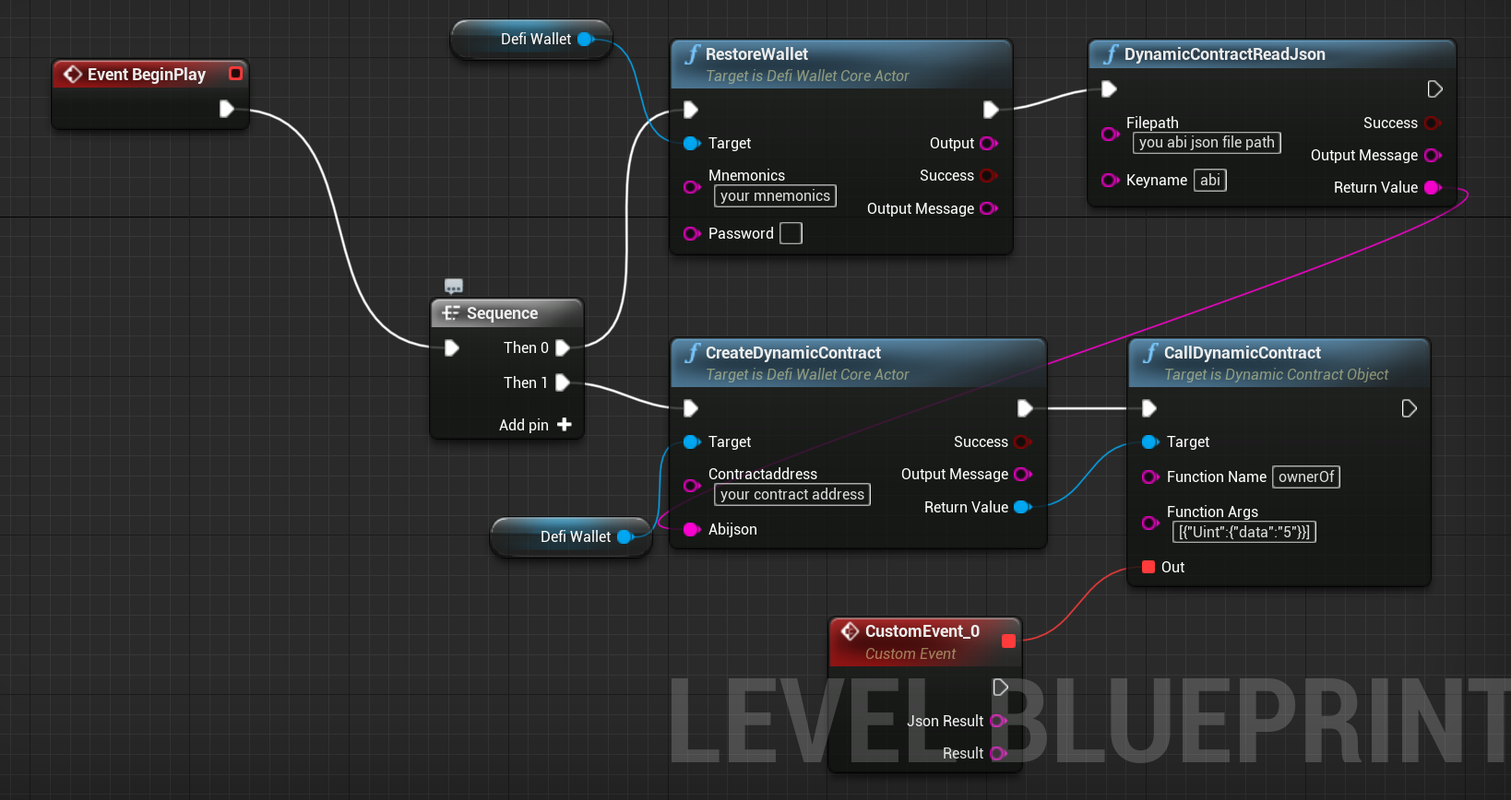
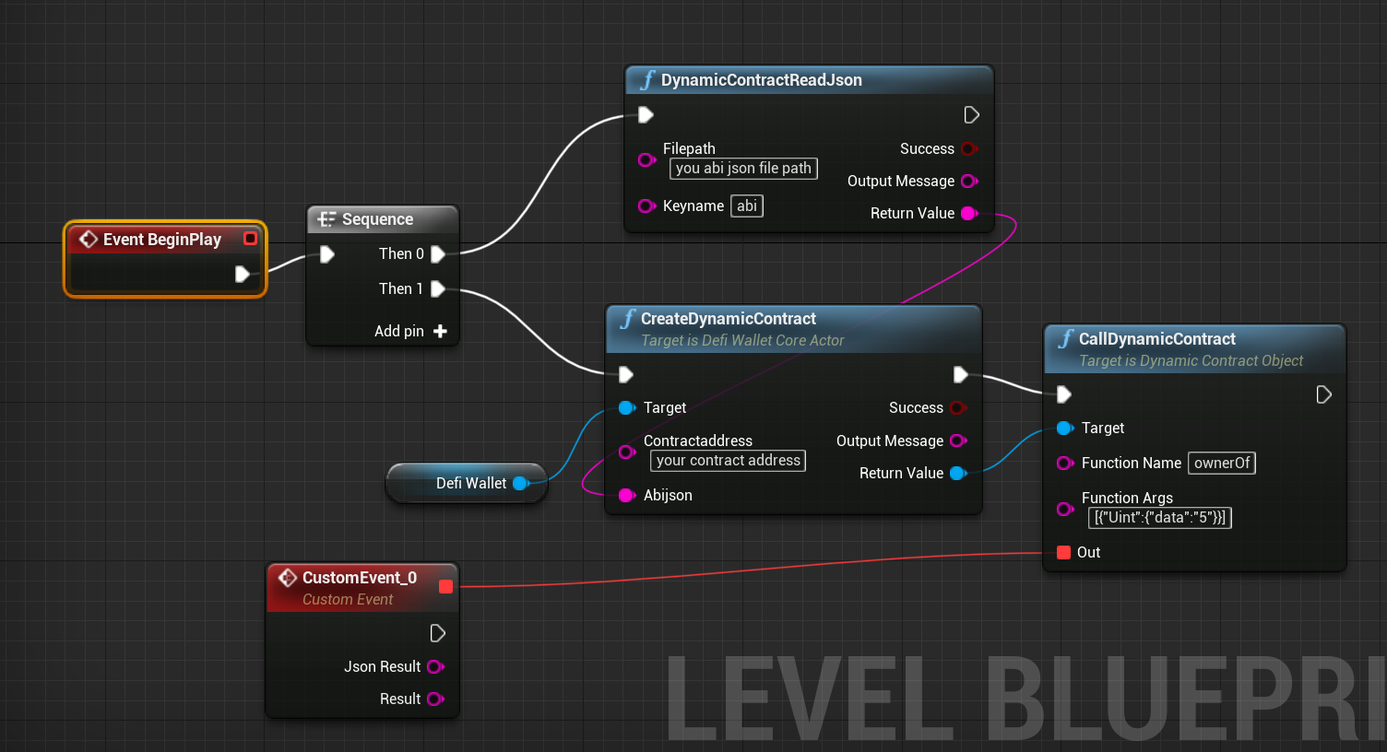
update call blueprint

diff --git a/cronos-play/getting-started_unreal/quick-start/dynamic-contract.md b/cronos-play/getting-started_unreal/quick-start/dynamic-contract.md
@@ -9,14 +9,15 @@ with Dynamic Contract, you can call any smartcontract. you need abi json file fo
 - CreateDynamicContract : for query smart-contract
 - CreateDynamicSigningContract : for modifying smart-contract
 - Now DynamicContractObject is ready!
-## Functions of DynamicContractObject
+## What function to use?
 - EncodeDynamicContract : for `encoding`, can be used wallet-connect
 - CallDynamicContract : for `calling`, should be created with CreateDynamicContract
 - SendDynamicContract : for `signing and sending`, should be created with CreateDynamicSigningContract
 
 
 ## Call
-this is for non modifying contract call
+this is for non modifying contract call. 
+
 
 {% tabs %}
 {% tab title="Blueprint" %}
@@ -28,98 +29,75 @@ this is for non modifying contract call
 Begin Object Class=/Script/BlueprintGraph.K2Node_Event Name="K2Node_Event_0"
    EventReference=(MemberParent=Class'"/Script/Engine.Actor"',MemberName="ReceiveBeginPlay")
    bOverrideFunction=True
-   NodePosX=272
-   NodePosY=-128
+   NodePosX=352
+   NodePosY=-16
    bCommentBubblePinned=True
    NodeGuid=B2615BE8C3444DE2359C4B8006BBF22B
    CustomProperties Pin (PinId=69DB03EB484F4E29481C7F9D0F09A66F,PinName="OutputDelegate",Direction="EGPD_Output",PinType.PinCategory="delegate",PinType.PinSubCategory="",PinType.PinSubCategoryObject=None,PinType.PinSubCategoryMemberReference=(MemberParent=Class'"/Script/Engine.Actor"',MemberName="ReceiveBeginPlay"),PinType.PinValueType=(),PinType.ContainerType=None,PinType.bIsReference=False,PinType.bIsConst=False,PinType.bIsWeakPointer=False,PinType.bIsUObjectWrapper=False,PersistentGuid=00000000000000000000000000000000,bHidden=False,bNotConnectable=False,bDefaultValueIsReadOnly=False,bDefaultValueIsIgnored=False,bAdvancedView=False,bOrphanedPin=False,)
    CustomProperties Pin (PinId=D098D41F404FEFAFD822D08093AFBBA7,PinName="then",Direction="EGPD_Output",PinType.PinCategory="exec",PinType.PinSubCategory="",PinType.PinSubCategoryObject=None,PinType.PinSubCategoryMemberReference=(),PinType.PinValueType=(),PinType.ContainerType=None,PinType.bIsReference=False,PinType.bIsConst=False,PinType.bIsWeakPointer=False,PinType.bIsUObjectWrapper=False,LinkedTo=(K2Node_ExecutionSequence_0 E87F1F9EB1447E814CA34F920A1315F8,),PersistentGuid=00000000000000000000000000000000,bHidden=False,bNotConnectable=False,bDefaultValueIsReadOnly=False,bDefaultValueIsIgnored=False,bAdvancedView=False,bOrphanedPin=False,)
 End Object
-Begin Object Class=/Script/BlueprintGraph.K2Node_CallFunction Name="K2Node_CallFunction_2"
-   FunctionReference=(MemberParent=Class'"/Script/CronosPlayUnreal.DefiWalletCoreActor"',MemberName="RestoreWallet")
-   NodePosX=768
-   NodePosY=-144
-   ErrorType=1
-   NodeGuid=D16BBFDAD54F023A6514BF8A38AC27E3
-   CustomProperties Pin (PinId=CC10486B69427106C2639EBE588ACDDF,PinName="execute",PinToolTip="\nExec",PinType.PinCategory="exec",PinType.PinSubCategory="",PinType.PinSubCategoryObject=None,PinType.PinSubCategoryMemberReference=(),PinType.PinValueType=(),PinType.ContainerType=None,PinType.bIsReference=False,PinType.bIsConst=False,PinType.bIsWeakPointer=False,PinType.bIsUObjectWrapper=False,LinkedTo=(K2Node_ExecutionSequence_0 50044A60DE4482789B6CA0A4BD51F169,),PersistentGuid=00000000000000000000000000000000,bHidden=False,bNotConnectable=False,bDefaultValueIsReadOnly=False,bDefaultValueIsIgnored=False,bAdvancedView=False,bOrphanedPin=False,)
-   CustomProperties Pin (PinId=D377276311440CEFC9BD748CD36BB888,PinName="then",PinToolTip="\nExec",Direction="EGPD_Output",PinType.PinCategory="exec",PinType.PinSubCategory="",PinType.PinSubCategoryObject=None,PinType.PinSubCategoryMemberReference=(),PinType.PinValueType=(),PinType.ContainerType=None,PinType.bIsReference=False,PinType.bIsConst=False,PinType.bIsWeakPointer=False,PinType.bIsUObjectWrapper=False,LinkedTo=(K2Node_CallFunction_13 265FD30C684CC9BF094A5EB278587A68,),PersistentGuid=00000000000000000000000000000000,bHidden=False,bNotConnectable=False,bDefaultValueIsReadOnly=False,bDefaultValueIsIgnored=False,bAdvancedView=False,bOrphanedPin=False,)
-   CustomProperties Pin (PinId=CC66B5196A43EC50BD5869A2A16BC1E4,PinName="self",PinFriendlyName=NSLOCTEXT("K2Node", "Target", "Target"),PinToolTip="Target\nDefi Wallet Core Actor Object Reference",PinType.PinCategory="object",PinType.PinSubCategory="",PinType.PinSubCategoryObject=Class'"/Script/CronosPlayUnreal.DefiWalletCoreActor"',PinType.PinSubCategoryMemberReference=(),PinType.PinValueType=(),PinType.ContainerType=None,PinType.bIsReference=False,PinType.bIsConst=False,PinType.bIsWeakPointer=False,PinType.bIsUObjectWrapper=False,LinkedTo=(K2Node_VariableGet_0 5BC9AD8AD244757403D75DBE104C57FA,),PersistentGuid=00000000000000000000000000000000,bHidden=False,bNotConnectable=False,bDefaultValueIsReadOnly=False,bDefaultValueIsIgnored=False,bAdvancedView=False,bOrphanedPin=False,)
-   CustomProperties Pin (PinId=B2CCA6AB344FAFAECB5236AD983E435B,PinName="mnemonics",PinToolTip="Mnemonics\nString\n\nmnemonics to restore",PinType.PinCategory="string",PinType.PinSubCategory="",PinType.PinSubCategoryObject=None,PinType.PinSubCategoryMemberReference=(),PinType.PinValueType=(),PinType.ContainerType=None,PinType.bIsReference=False,PinType.bIsConst=False,PinType.bIsWeakPointer=False,PinType.bIsUObjectWrapper=False,DefaultValue="your mnemonics",PersistentGuid=00000000000000000000000000000000,bHidden=False,bNotConnectable=False,bDefaultValueIsReadOnly=False,bDefaultValueIsIgnored=False,bAdvancedView=False,bOrphanedPin=False,)
-   CustomProperties Pin (PinId=C72AB9912C4A2F89420D9FBA127E07F7,PinName="password",PinToolTip="Password\nString\n\nsalt in mnemonics restoration",PinType.PinCategory="string",PinType.PinSubCategory="",PinType.PinSubCategoryObject=None,PinType.PinSubCategoryMemberReference=(),PinType.PinValueType=(),PinType.ContainerType=None,PinType.bIsReference=False,PinType.bIsConst=False,PinType.bIsWeakPointer=False,PinType.bIsUObjectWrapper=False,PersistentGuid=00000000000000000000000000000000,bHidden=False,bNotConnectable=False,bDefaultValueIsReadOnly=False,bDefaultValueIsIgnored=False,bAdvancedView=False,bOrphanedPin=False,)
-   CustomProperties Pin (PinId=C898BEDB574739A8BF1A0F8427E43B35,PinName="output",PinToolTip="Output\nString\n\ngenerated address (index=0)",Direction="EGPD_Output",PinType.PinCategory="string",PinType.PinSubCategory="",PinType.PinSubCategoryObject=None,PinType.PinSubCategoryMemberReference=(),PinType.PinValueType=(),PinType.ContainerType=None,PinType.bIsReference=False,PinType.bIsConst=False,PinType.bIsWeakPointer=False,PinType.bIsUObjectWrapper=False,PersistentGuid=00000000000000000000000000000000,bHidden=False,bNotConnectable=False,bDefaultValueIsReadOnly=False,bDefaultValueIsIgnored=False,bAdvancedView=False,bOrphanedPin=False,)
-   CustomProperties Pin (PinId=F4660B5E0947EFE4AF06E580504CC2A4,PinName="success",PinToolTip="Success\nBoolean\n\nwhether succeed or not",Direction="EGPD_Output",PinType.PinCategory="bool",PinType.PinSubCategory="",PinType.PinSubCategoryObject=None,PinType.PinSubCategoryMemberReference=(),PinType.PinValueType=(),PinType.ContainerType=None,PinType.bIsReference=False,PinType.bIsConst=False,PinType.bIsWeakPointer=False,PinType.bIsUObjectWrapper=False,DefaultValue="false",AutogeneratedDefaultValue="false",PersistentGuid=00000000000000000000000000000000,bHidden=False,bNotConnectable=False,bDefaultValueIsReadOnly=False,bDefaultValueIsIgnored=False,bAdvancedView=False,bOrphanedPin=False,)
-   CustomProperties Pin (PinId=56AD7BAA324F96C73FC6588F359C64BB,PinName="output_message",PinToolTip="Output Message\nString",Direction="EGPD_Output",PinType.PinCategory="string",PinType.PinSubCategory="",PinType.PinSubCategoryObject=None,PinType.PinSubCategoryMemberReference=(),PinType.PinValueType=(),PinType.ContainerType=None,PinType.bIsReference=False,PinType.bIsConst=False,PinType.bIsWeakPointer=False,PinType.bIsUObjectWrapper=False,PersistentGuid=00000000000000000000000000000000,bHidden=False,bNotConnectable=False,bDefaultValueIsReadOnly=False,bDefaultValueIsIgnored=False,bAdvancedView=False,bOrphanedPin=False,)
-End Object
 Begin Object Class=/Script/BlueprintGraph.K2Node_CallFunction Name="K2Node_CallFunction_11"
    FunctionReference=(MemberParent=Class'"/Script/CronosPlayUnreal.DefiWalletCoreActor"',MemberName="CreateDynamicContract")
-   NodePosX=768
-   NodePosY=96
+   NodePosX=784
+   NodePosY=48
    ErrorType=1
    NodeGuid=24B953847041FED84EFEAE9E59038ECF
    CustomProperties Pin (PinId=35303420D14ABDD9915A2BA28B6BE060,PinName="execute",PinToolTip="\nExec",PinType.PinCategory="exec",PinType.PinSubCategory="",PinType.PinSubCategoryObject=None,PinType.PinSubCategoryMemberReference=(),PinType.PinValueType=(),PinType.ContainerType=None,PinType.bIsReference=False,PinType.bIsConst=False,PinType.bIsWeakPointer=False,PinType.bIsUObjectWrapper=False,LinkedTo=(K2Node_ExecutionSequence_0 EE5B8F232B4D5383BBEF1ABBAA1DE99D,),PersistentGuid=00000000000000000000000000000000,bHidden=False,bNotConnectable=False,bDefaultValueIsReadOnly=False,bDefaultValueIsIgnored=False,bAdvancedView=False,bOrphanedPin=False,)
    CustomProperties Pin (PinId=35D356C7914C7AD1016CCBBB0A99956C,PinName="then",PinToolTip="\nExec",Direction="EGPD_Output",PinType.PinCategory="exec",PinType.PinSubCategory="",PinType.PinSubCategoryObject=None,PinType.PinSubCategoryMemberReference=(),PinType.PinValueType=(),PinType.ContainerType=None,PinType.bIsReference=False,PinType.bIsConst=False,PinType.bIsWeakPointer=False,PinType.bIsUObjectWrapper=False,LinkedTo=(K2Node_CallFunction_14 32060A7AA349E43067CD529C7C1D97EF,),PersistentGuid=00000000000000000000000000000000,bHidden=False,bNotConnectable=False,bDefaultValueIsReadOnly=False,bDefaultValueIsIgnored=False,bAdvancedView=False,bOrphanedPin=False,)
    CustomProperties Pin (PinId=2CCD60090A46D4C1088285BDFAE08E34,PinName="self",PinFriendlyName=NSLOCTEXT("K2Node", "Target", "Target"),PinToolTip="Target\nDefi Wallet Core Actor Object Reference",PinType.PinCategory="object",PinType.PinSubCategory="",PinType.PinSubCategoryObject=Class'"/Script/CronosPlayUnreal.DefiWalletCoreActor"',PinType.PinSubCategoryMemberReference=(),PinType.PinValueType=(),PinType.ContainerType=None,PinType.bIsReference=False,PinType.bIsConst=False,PinType.bIsWeakPointer=False,PinType.bIsUObjectWrapper=False,LinkedTo=(K2Node_VariableGet_1 114DD9F4004FCC40F16B6FB1A68D3A0C,),PersistentGuid=00000000000000000000000000000000,bHidden=False,bNotConnectable=False,bDefaultValueIsReadOnly=False,bDefaultValueIsIgnored=False,bAdvancedView=False,bOrphanedPin=False,)
-   CustomProperties Pin (PinId=1BA689BEB64CD597BDE2C1B612C4CB83,PinName="contractaddress",PinToolTip="Contractaddress\nString",PinType.PinCategory="string",PinType.PinSubCategory="",PinType.PinSubCategoryObject=None,PinType.PinSubCategoryMemberReference=(),PinType.PinValueType=(),PinType.ContainerType=None,PinType.bIsReference=False,PinType.bIsConst=False,PinType.bIsWeakPointer=False,PinType.bIsUObjectWrapper=False,DefaultValue="your contract address",PersistentGuid=00000000000000000000000000000000,bHidden=False,bNotConnectable=False,bDefaultValueIsReadOnly=False,bDefaultValueIsIgnored=False,bAdvancedView=False,bOrphanedPin=False,)
-   CustomProperties Pin (PinId=6E1E7A9F6042216B472CA8AD7BC69ADD,PinName="abijson",PinToolTip="Abijson\nString",PinType.PinCategory="string",PinType.PinSubCategory="",PinType.PinSubCategoryObject=None,PinType.PinSubCategoryMemberReference=(),PinType.PinValueType=(),PinType.ContainerType=None,PinType.bIsReference=False,PinType.bIsConst=False,PinType.bIsWeakPointer=False,PinType.bIsUObjectWrapper=False,LinkedTo=(K2Node_CallFunction_13 B9FD325F8D4175761A208EABA395E7C3,),PersistentGuid=00000000000000000000000000000000,bHidden=False,bNotConnectable=False,bDefaultValueIsReadOnly=False,bDefaultValueIsIgnored=False,bAdvancedView=False,bOrphanedPin=False,)
-   CustomProperties Pin (PinId=A8F0797559425F579E55C4B3A777FAEF,PinName="success",PinToolTip="Success\nBoolean",Direction="EGPD_Output",PinType.PinCategory="bool",PinType.PinSubCategory="",PinType.PinSubCategoryObject=None,PinType.PinSubCategoryMemberReference=(),PinType.PinValueType=(),PinType.ContainerType=None,PinType.bIsReference=False,PinType.bIsConst=False,PinType.bIsWeakPointer=False,PinType.bIsUObjectWrapper=False,DefaultValue="false",AutogeneratedDefaultValue="false",PersistentGuid=00000000000000000000000000000000,bHidden=False,bNotConnectable=False,bDefaultValueIsReadOnly=False,bDefaultValueIsIgnored=False,bAdvancedView=False,bOrphanedPin=False,)
-   CustomProperties Pin (PinId=B261FA23C54253E322FEE9BBA52DA9B6,PinName="output_message",PinToolTip="Output Message\nString",Direction="EGPD_Output",PinType.PinCategory="string",PinType.PinSubCategory="",PinType.PinSubCategoryObject=None,PinType.PinSubCategoryMemberReference=(),PinType.PinValueType=(),PinType.ContainerType=None,PinType.bIsReference=False,PinType.bIsConst=False,PinType.bIsWeakPointer=False,PinType.bIsUObjectWrapper=False,PersistentGuid=00000000000000000000000000000000,bHidden=False,bNotConnectable=False,bDefaultValueIsReadOnly=False,bDefaultValueIsIgnored=False,bAdvancedView=False,bOrphanedPin=False,)
-   CustomProperties Pin (PinId=78231FBA494670FDD3AA9EADB431AD81,PinName="ReturnValue",PinToolTip="Return Value\nDynamic Contract Object Object Reference\n\nCreate Dynamic Contract",Direction="EGPD_Output",PinType.PinCategory="object",PinType.PinSubCategory="",PinType.PinSubCategoryObject=Class'"/Script/CronosPlayUnreal.DynamicContractObject"',PinType.PinSubCategoryMemberReference=(),PinType.PinValueType=(),PinType.ContainerType=None,PinType.bIsReference=False,PinType.bIsConst=False,PinType.bIsWeakPointer=False,PinType.bIsUObjectWrapper=False,LinkedTo=(K2Node_CallFunction_14 C196488202438A1BF81E1D8A15E55AB8,),PersistentGuid=00000000000000000000000000000000,bHidden=False,bNotConnectable=False,bDefaultValueIsReadOnly=False,bDefaultValueIsIgnored=False,bAdvancedView=False,bOrphanedPin=False,)
+   CustomProperties Pin (PinId=1BA689BEB64CD597BDE2C1B612C4CB83,PinName="contractaddress",PinToolTip="Contractaddress\nString\n\nfunction name to encode",PinType.PinCategory="string",PinType.PinSubCategory="",PinType.PinSubCategoryObject=None,PinType.PinSubCategoryMemberReference=(),PinType.PinValueType=(),PinType.ContainerType=None,PinType.bIsReference=False,PinType.bIsConst=False,PinType.bIsWeakPointer=False,PinType.bIsUObjectWrapper=False,DefaultValue="your contract address",PersistentGuid=00000000000000000000000000000000,bHidden=False,bNotConnectable=False,bDefaultValueIsReadOnly=False,bDefaultValueIsIgnored=False,bAdvancedView=False,bOrphanedPin=False,)
+   CustomProperties Pin (PinId=6E1E7A9F6042216B472CA8AD7BC69ADD,PinName="abijson",PinToolTip="Abijson\nString\n\nabi json string (not file path, actual json)",PinType.PinCategory="string",PinType.PinSubCategory="",PinType.PinSubCategoryObject=None,PinType.PinSubCategoryMemberReference=(),PinType.PinValueType=(),PinType.ContainerType=None,PinType.bIsReference=False,PinType.bIsConst=False,PinType.bIsWeakPointer=False,PinType.bIsUObjectWrapper=False,LinkedTo=(K2Node_CallFunction_13 B9FD325F8D4175761A208EABA395E7C3,),PersistentGuid=00000000000000000000000000000000,bHidden=False,bNotConnectable=False,bDefaultValueIsReadOnly=False,bDefaultValueIsIgnored=False,bAdvancedView=False,bOrphanedPin=False,)
+   CustomProperties Pin (PinId=A8F0797559425F579E55C4B3A777FAEF,PinName="success",PinToolTip="Success\nBoolean\n\nsuccess or not",Direction="EGPD_Output",PinType.PinCategory="bool",PinType.PinSubCategory="",PinType.PinSubCategoryObject=None,PinType.PinSubCategoryMemberReference=(),PinType.PinValueType=(),PinType.ContainerType=None,PinType.bIsReference=False,PinType.bIsConst=False,PinType.bIsWeakPointer=False,PinType.bIsUObjectWrapper=False,DefaultValue="false",AutogeneratedDefaultValue="false",PersistentGuid=00000000000000000000000000000000,bHidden=False,bNotConnectable=False,bDefaultValueIsReadOnly=False,bDefaultValueIsIgnored=False,bAdvancedView=False,bOrphanedPin=False,)
+   CustomProperties Pin (PinId=B261FA23C54253E322FEE9BBA52DA9B6,PinName="output_message",PinToolTip="Output Message\nString\n\nresult message",Direction="EGPD_Output",PinType.PinCategory="string",PinType.PinSubCategory="",PinType.PinSubCategoryObject=None,PinType.PinSubCategoryMemberReference=(),PinType.PinValueType=(),PinType.ContainerType=None,PinType.bIsReference=False,PinType.bIsConst=False,PinType.bIsWeakPointer=False,PinType.bIsUObjectWrapper=False,PersistentGuid=00000000000000000000000000000000,bHidden=False,bNotConnectable=False,bDefaultValueIsReadOnly=False,bDefaultValueIsIgnored=False,bAdvancedView=False,bOrphanedPin=False,)
+   CustomProperties Pin (PinId=78231FBA494670FDD3AA9EADB431AD81,PinName="ReturnValue",PinToolTip="Return Value\nDynamic Contract Object Object Reference",Direction="EGPD_Output",PinType.PinCategory="object",PinType.PinSubCategory="",PinType.PinSubCategoryObject=Class'"/Script/CronosPlayUnreal.DynamicContractObject"',PinType.PinSubCategoryMemberReference=(),PinType.PinValueType=(),PinType.ContainerType=None,PinType.bIsReference=False,PinType.bIsConst=False,PinType.bIsWeakPointer=False,PinType.bIsUObjectWrapper=False,LinkedTo=(K2Node_CallFunction_14 C196488202438A1BF81E1D8A15E55AB8,),PersistentGuid=00000000000000000000000000000000,bHidden=False,bNotConnectable=False,bDefaultValueIsReadOnly=False,bDefaultValueIsIgnored=False,bAdvancedView=False,bOrphanedPin=False,)
 End Object
 Begin Object Class=/Script/BlueprintGraph.K2Node_CallFunction Name="K2Node_CallFunction_13"
    FunctionReference=(MemberParent=Class'"/Script/CronosPlayUnreal.DynamicContractObject"',MemberName="DynamicContractReadJson")
-   NodePosX=1104
+   NodePosX=800
    NodePosY=-144
    NodeGuid=B7B72B6D3C475E51DF46D189AA32E9A1
-   CustomProperties Pin (PinId=265FD30C684CC9BF094A5EB278587A68,PinName="execute",PinToolTip="\nExec",PinType.PinCategory="exec",PinType.PinSubCategory="",PinType.PinSubCategoryObject=None,PinType.PinSubCategoryMemberReference=(),PinType.PinValueType=(),PinType.ContainerType=None,PinType.bIsReference=False,PinType.bIsConst=False,PinType.bIsWeakPointer=False,PinType.bIsUObjectWrapper=False,LinkedTo=(K2Node_CallFunction_2 D377276311440CEFC9BD748CD36BB888,),PersistentGuid=00000000000000000000000000000000,bHidden=False,bNotConnectable=False,bDefaultValueIsReadOnly=False,bDefaultValueIsIgnored=False,bAdvancedView=False,bOrphanedPin=False,)
+   CustomProperties Pin (PinId=265FD30C684CC9BF094A5EB278587A68,PinName="execute",PinToolTip="\nExec",PinType.PinCategory="exec",PinType.PinSubCategory="",PinType.PinSubCategoryObject=None,PinType.PinSubCategoryMemberReference=(),PinType.PinValueType=(),PinType.ContainerType=None,PinType.bIsReference=False,PinType.bIsConst=False,PinType.bIsWeakPointer=False,PinType.bIsUObjectWrapper=False,LinkedTo=(K2Node_ExecutionSequence_0 50044A60DE4482789B6CA0A4BD51F169,),PersistentGuid=00000000000000000000000000000000,bHidden=False,bNotConnectable=False,bDefaultValueIsReadOnly=False,bDefaultValueIsIgnored=False,bAdvancedView=False,bOrphanedPin=False,)
    CustomProperties Pin (PinId=CF0EE27C9D45D89E028762B73FF2AAC4,PinName="then",PinToolTip="\nExec",Direction="EGPD_Output",PinType.PinCategory="exec",PinType.PinSubCategory="",PinType.PinSubCategoryObject=None,PinType.PinSubCategoryMemberReference=(),PinType.PinValueType=(),PinType.ContainerType=None,PinType.bIsReference=False,PinType.bIsConst=False,PinType.bIsWeakPointer=False,PinType.bIsUObjectWrapper=False,PersistentGuid=00000000000000000000000000000000,bHidden=False,bNotConnectable=False,bDefaultValueIsReadOnly=False,bDefaultValueIsIgnored=False,bAdvancedView=False,bOrphanedPin=False,)
    CustomProperties Pin (PinId=96909D8D394324BC8BD871B1EF48F671,PinName="self",PinFriendlyName=NSLOCTEXT("K2Node", "Target", "Target"),PinToolTip="Target\nDynamic Contract Object Object Reference",PinType.PinCategory="object",PinType.PinSubCategory="",PinType.PinSubCategoryObject=Class'"/Script/CronosPlayUnreal.DynamicContractObject"',PinType.PinSubCategoryMemberReference=(),PinType.PinValueType=(),PinType.ContainerType=None,PinType.bIsReference=False,PinType.bIsConst=False,PinType.bIsWeakPointer=False,PinType.bIsUObjectWrapper=False,DefaultObject="/Script/CronosPlayUnreal.Default__DynamicContractObject",PersistentGuid=00000000000000000000000000000000,bHidden=True,bNotConnectable=False,bDefaultValueIsReadOnly=False,bDefaultValueIsIgnored=False,bAdvancedView=False,bOrphanedPin=False,)
-   CustomProperties Pin (PinId=5E33C64E564FD7541B8359AC768AA680,PinName="filepath",PinToolTip="Filepath\nString",PinType.PinCategory="string",PinType.PinSubCategory="",PinType.PinSubCategoryObject=None,PinType.PinSubCategoryMemberReference=(),PinType.PinValueType=(),PinType.ContainerType=None,PinType.bIsReference=False,PinType.bIsConst=False,PinType.bIsWeakPointer=False,PinType.bIsUObjectWrapper=False,DefaultValue="you abi json file path",PersistentGuid=00000000000000000000000000000000,bHidden=False,bNotConnectable=False,bDefaultValueIsReadOnly=False,bDefaultValueIsIgnored=False,bAdvancedView=False,bOrphanedPin=False,)
-   CustomProperties Pin (PinId=0C00AE1F304D044A551C36BA65CE7772,PinName="keyname",PinToolTip="Keyname\nString",PinType.PinCategory="string",PinType.PinSubCategory="",PinType.PinSubCategoryObject=None,PinType.PinSubCategoryMemberReference=(),PinType.PinValueType=(),PinType.ContainerType=None,PinType.bIsReference=False,PinType.bIsConst=False,PinType.bIsWeakPointer=False,PinType.bIsUObjectWrapper=False,DefaultValue="abi",PersistentGuid=00000000000000000000000000000000,bHidden=False,bNotConnectable=False,bDefaultValueIsReadOnly=False,bDefaultValueIsIgnored=False,bAdvancedView=False,bOrphanedPin=False,)
-   CustomProperties Pin (PinId=E5027E94D54D029CA4FFE2B1338D34F4,PinName="success",PinToolTip="Success\nBoolean",Direction="EGPD_Output",PinType.PinCategory="bool",PinType.PinSubCategory="",PinType.PinSubCategoryObject=None,PinType.PinSubCategoryMemberReference=(),PinType.PinValueType=(),PinType.ContainerType=None,PinType.bIsReference=False,PinType.bIsConst=False,PinType.bIsWeakPointer=False,PinType.bIsUObjectWrapper=False,DefaultValue="false",AutogeneratedDefaultValue="false",PersistentGuid=00000000000000000000000000000000,bHidden=False,bNotConnectable=False,bDefaultValueIsReadOnly=False,bDefaultValueIsIgnored=False,bAdvancedView=False,bOrphanedPin=False,)
-   CustomProperties Pin (PinId=BA8D6DB3F14E2F66FE84D0B80CBA82DA,PinName="output_message",PinToolTip="Output Message\nString",Direction="EGPD_Output",PinType.PinCategory="string",PinType.PinSubCategory="",PinType.PinSubCategoryObject=None,PinType.PinSubCategoryMemberReference=(),PinType.PinValueType=(),PinType.ContainerType=None,PinType.bIsReference=False,PinType.bIsConst=False,PinType.bIsWeakPointer=False,PinType.bIsUObjectWrapper=False,PersistentGuid=00000000000000000000000000000000,bHidden=False,bNotConnectable=False,bDefaultValueIsReadOnly=False,bDefaultValueIsIgnored=False,bAdvancedView=False,bOrphanedPin=False,)
-   CustomProperties Pin (PinId=B9FD325F8D4175761A208EABA395E7C3,PinName="ReturnValue",PinToolTip="Return Value\nString\n\nDynamic Contract Read Json",Direction="EGPD_Output",PinType.PinCategory="string",PinType.PinSubCategory="",PinType.PinSubCategoryObject=None,PinType.PinSubCategoryMemberReference=(),PinType.PinValueType=(),PinType.ContainerType=None,PinType.bIsReference=False,PinType.bIsConst=False,PinType.bIsWeakPointer=False,PinType.bIsUObjectWrapper=False,LinkedTo=(K2Node_CallFunction_11 6E1E7A9F6042216B472CA8AD7BC69ADD,),PersistentGuid=00000000000000000000000000000000,bHidden=False,bNotConnectable=False,bDefaultValueIsReadOnly=False,bDefaultValueIsIgnored=False,bAdvancedView=False,bOrphanedPin=False,)
+   CustomProperties Pin (PinId=5E33C64E564FD7541B8359AC768AA680,PinName="filepath",PinToolTip="Filepath\nString\n\nthe json file path",PinType.PinCategory="string",PinType.PinSubCategory="",PinType.PinSubCategoryObject=None,PinType.PinSubCategoryMemberReference=(),PinType.PinValueType=(),PinType.ContainerType=None,PinType.bIsReference=False,PinType.bIsConst=False,PinType.bIsWeakPointer=False,PinType.bIsUObjectWrapper=False,DefaultValue="you abi json file path",PersistentGuid=00000000000000000000000000000000,bHidden=False,bNotConnectable=False,bDefaultValueIsReadOnly=False,bDefaultValueIsIgnored=False,bAdvancedView=False,bOrphanedPin=False,)
+   CustomProperties Pin (PinId=0C00AE1F304D044A551C36BA65CE7772,PinName="keyname",PinToolTip="Keyname\nString\n\nthe key name to get value",PinType.PinCategory="string",PinType.PinSubCategory="",PinType.PinSubCategoryObject=None,PinType.PinSubCategoryMemberReference=(),PinType.PinValueType=(),PinType.ContainerType=None,PinType.bIsReference=False,PinType.bIsConst=False,PinType.bIsWeakPointer=False,PinType.bIsUObjectWrapper=False,DefaultValue="abi",PersistentGuid=00000000000000000000000000000000,bHidden=False,bNotConnectable=False,bDefaultValueIsReadOnly=False,bDefaultValueIsIgnored=False,bAdvancedView=False,bOrphanedPin=False,)
+   CustomProperties Pin (PinId=E5027E94D54D029CA4FFE2B1338D34F4,PinName="success",PinToolTip="Success\nBoolean\n\nsuccess or not",Direction="EGPD_Output",PinType.PinCategory="bool",PinType.PinSubCategory="",PinType.PinSubCategoryObject=None,PinType.PinSubCategoryMemberReference=(),PinType.PinValueType=(),PinType.ContainerType=None,PinType.bIsReference=False,PinType.bIsConst=False,PinType.bIsWeakPointer=False,PinType.bIsUObjectWrapper=False,DefaultValue="false",AutogeneratedDefaultValue="false",PersistentGuid=00000000000000000000000000000000,bHidden=False,bNotConnectable=False,bDefaultValueIsReadOnly=False,bDefaultValueIsIgnored=False,bAdvancedView=False,bOrphanedPin=False,)
+   CustomProperties Pin (PinId=BA8D6DB3F14E2F66FE84D0B80CBA82DA,PinName="output_message",PinToolTip="Output Message\nString\n\nresult message",Direction="EGPD_Output",PinType.PinCategory="string",PinType.PinSubCategory="",PinType.PinSubCategoryObject=None,PinType.PinSubCategoryMemberReference=(),PinType.PinValueType=(),PinType.ContainerType=None,PinType.bIsReference=False,PinType.bIsConst=False,PinType.bIsWeakPointer=False,PinType.bIsUObjectWrapper=False,PersistentGuid=00000000000000000000000000000000,bHidden=False,bNotConnectable=False,bDefaultValueIsReadOnly=False,bDefaultValueIsIgnored=False,bAdvancedView=False,bOrphanedPin=False,)
+   CustomProperties Pin (PinId=B9FD325F8D4175761A208EABA395E7C3,PinName="ReturnValue",PinToolTip="Return Value\nString",Direction="EGPD_Output",PinType.PinCategory="string",PinType.PinSubCategory="",PinType.PinSubCategoryObject=None,PinType.PinSubCategoryMemberReference=(),PinType.PinValueType=(),PinType.ContainerType=None,PinType.bIsReference=False,PinType.bIsConst=False,PinType.bIsWeakPointer=False,PinType.bIsUObjectWrapper=False,LinkedTo=(K2Node_CallFunction_11 6E1E7A9F6042216B472CA8AD7BC69ADD,),PersistentGuid=00000000000000000000000000000000,bHidden=False,bNotConnectable=False,bDefaultValueIsReadOnly=False,bDefaultValueIsIgnored=False,bAdvancedView=False,bOrphanedPin=False,)
 End Object
 Begin Object Class=/Script/BlueprintGraph.K2Node_CallFunction Name="K2Node_CallFunction_14"
    FunctionReference=(MemberParent=Class'"/Script/CronosPlayUnreal.DynamicContractObject"',MemberName="CallDynamicContract")
    NodePosX=1136
-   NodePosY=96
+   NodePosY=64
    ErrorType=1
    NodeGuid=38293ECDAE4FA3329376E5877CFF2845
    CustomProperties Pin (PinId=32060A7AA349E43067CD529C7C1D97EF,PinName="execute",PinToolTip="\nExec",PinType.PinCategory="exec",PinType.PinSubCategory="",PinType.PinSubCategoryObject=None,PinType.PinSubCategoryMemberReference=(),PinType.PinValueType=(),PinType.ContainerType=None,PinType.bIsReference=False,PinType.bIsConst=False,PinType.bIsWeakPointer=False,PinType.bIsUObjectWrapper=False,LinkedTo=(K2Node_CallFunction_11 35D356C7914C7AD1016CCBBB0A99956C,),PersistentGuid=00000000000000000000000000000000,bHidden=False,bNotConnectable=False,bDefaultValueIsReadOnly=False,bDefaultValueIsIgnored=False,bAdvancedView=False,bOrphanedPin=False,)
    CustomProperties Pin (PinId=E9013579E248851B3E7922835A7A0630,PinName="then",PinToolTip="\nExec",Direction="EGPD_Output",PinType.PinCategory="exec",PinType.PinSubCategory="",PinType.PinSubCategoryObject=None,PinType.PinSubCategoryMemberReference=(),PinType.PinValueType=(),PinType.ContainerType=None,PinType.bIsReference=False,PinType.bIsConst=False,PinType.bIsWeakPointer=False,PinType.bIsUObjectWrapper=False,PersistentGuid=00000000000000000000000000000000,bHidden=False,bNotConnectable=False,bDefaultValueIsReadOnly=False,bDefaultValueIsIgnored=False,bAdvancedView=False,bOrphanedPin=False,)
    CustomProperties Pin (PinId=C196488202438A1BF81E1D8A15E55AB8,PinName="self",PinFriendlyName=NSLOCTEXT("K2Node", "Target", "Target"),PinToolTip="Target\nDynamic Contract Object Object Reference",PinType.PinCategory="object",PinType.PinSubCategory="",PinType.PinSubCategoryObject=Class'"/Script/CronosPlayUnreal.DynamicContractObject"',PinType.PinSubCategoryMemberReference=(),PinType.PinValueType=(),PinType.ContainerType=None,PinType.bIsReference=False,PinType.bIsConst=False,PinType.bIsWeakPointer=False,PinType.bIsUObjectWrapper=False,LinkedTo=(K2Node_CallFunction_11 78231FBA494670FDD3AA9EADB431AD81,),PersistentGuid=00000000000000000000000000000000,bHidden=False,bNotConnectable=False,bDefaultValueIsReadOnly=False,bDefaultValueIsIgnored=False,bAdvancedView=False,bOrphanedPin=False,)
-   CustomProperties Pin (PinId=9FFD5C87314E25D04AC52794D6FF2BEA,PinName="functionName",PinToolTip="Function Name\nString",PinType.PinCategory="string",PinType.PinSubCategory="",PinType.PinSubCategoryObject=None,PinType.PinSubCategoryMemberReference=(),PinType.PinValueType=(),PinType.ContainerType=None,PinType.bIsReference=False,PinType.bIsConst=False,PinType.bIsWeakPointer=False,PinType.bIsUObjectWrapper=False,DefaultValue="ownerOf",PersistentGuid=00000000000000000000000000000000,bHidden=False,bNotConnectable=False,bDefaultValueIsReadOnly=False,bDefaultValueIsIgnored=False,bAdvancedView=False,bOrphanedPin=False,)
-   CustomProperties Pin (PinId=14E1E0A74E466B8BC9292D84F50B4F08,PinName="functionArgs",PinToolTip="Function Args\nString",PinType.PinCategory="string",PinType.PinSubCategory="",PinType.PinSubCategoryObject=None,PinType.PinSubCategoryMemberReference=(),PinType.PinValueType=(),PinType.ContainerType=None,PinType.bIsReference=False,PinType.bIsConst=False,PinType.bIsWeakPointer=False,PinType.bIsUObjectWrapper=False,DefaultValue="[{\"Uint\":{\"data\":\"5\"}}]",PersistentGuid=00000000000000000000000000000000,bHidden=False,bNotConnectable=False,bDefaultValueIsReadOnly=False,bDefaultValueIsIgnored=False,bAdvancedView=False,bOrphanedPin=False,)
-   CustomProperties Pin (PinId=86E16EE0ED4666583CDF729C79D2BAB6,PinName="Out",PinToolTip="Out\nDelegate",PinType.PinCategory="delegate",PinType.PinSubCategory="",PinType.PinSubCategoryObject=None,PinType.PinSubCategoryMemberReference=(MemberParent=Package'"/Script/CronosPlayUnreal"',MemberName="CallDynamicContractDelegate__DelegateSignature"),PinType.PinValueType=(),PinType.ContainerType=None,PinType.bIsReference=False,PinType.bIsConst=False,PinType.bIsWeakPointer=False,PinType.bIsUObjectWrapper=False,LinkedTo=(K2Node_CustomEvent_0 8458A9302D42B5879D560F82F9B0D120,),PersistentGuid=00000000000000000000000000000000,bHidden=False,bNotConnectable=False,bDefaultValueIsReadOnly=False,bDefaultValueIsIgnored=False,bAdvancedView=False,bOrphanedPin=False,)
+   CustomProperties Pin (PinId=9FFD5C87314E25D04AC52794D6FF2BEA,PinName="functionName",PinToolTip="Function Name\nString\n\nfunction name to call",PinType.PinCategory="string",PinType.PinSubCategory="",PinType.PinSubCategoryObject=None,PinType.PinSubCategoryMemberReference=(),PinType.PinValueType=(),PinType.ContainerType=None,PinType.bIsReference=False,PinType.bIsConst=False,PinType.bIsWeakPointer=False,PinType.bIsUObjectWrapper=False,DefaultValue="ownerOf",PersistentGuid=00000000000000000000000000000000,bHidden=False,bNotConnectable=False,bDefaultValueIsReadOnly=False,bDefaultValueIsIgnored=False,bAdvancedView=False,bOrphanedPin=False,)
+   CustomProperties Pin (PinId=14E1E0A74E466B8BC9292D84F50B4F08,PinName="functionArgs",PinToolTip="Function Args\nString\n\nwallet index which starts from 0",PinType.PinCategory="string",PinType.PinSubCategory="",PinType.PinSubCategoryObject=None,PinType.PinSubCategoryMemberReference=(),PinType.PinValueType=(),PinType.ContainerType=None,PinType.bIsReference=False,PinType.bIsConst=False,PinType.bIsWeakPointer=False,PinType.bIsUObjectWrapper=False,DefaultValue="[{\"Uint\":{\"data\":\"5\"}}]",PersistentGuid=00000000000000000000000000000000,bHidden=False,bNotConnectable=False,bDefaultValueIsReadOnly=False,bDefaultValueIsIgnored=False,bAdvancedView=False,bOrphanedPin=False,)
+   CustomProperties Pin (PinId=86E16EE0ED4666583CDF729C79D2BAB6,PinName="Out",PinToolTip="Out\nDelegate\n\nCallDynamicContract callback",PinType.PinCategory="delegate",PinType.PinSubCategory="",PinType.PinSubCategoryObject=None,PinType.PinSubCategoryMemberReference=(MemberParent=Package'"/Script/CronosPlayUnreal"',MemberName="CallDynamicContractDelegate__DelegateSignature"),PinType.PinValueType=(),PinType.ContainerType=None,PinType.bIsReference=False,PinType.bIsConst=False,PinType.bIsWeakPointer=False,PinType.bIsUObjectWrapper=False,LinkedTo=(K2Node_CustomEvent_0 8458A9302D42B5879D560F82F9B0D120,),PersistentGuid=00000000000000000000000000000000,bHidden=False,bNotConnectable=False,bDefaultValueIsReadOnly=False,bDefaultValueIsIgnored=False,bAdvancedView=False,bOrphanedPin=False,)
 End Object
 Begin Object Class=/Script/BlueprintGraph.K2Node_ExecutionSequence Name="K2Node_ExecutionSequence_0"
-   NodePosX=576
-   NodePosY=64
+   NodePosX=544
+   NodePosY=-32
    NodeGuid=3C30CCD48944704EF9A4838E8BC5D883
    CustomProperties Pin (PinId=E87F1F9EB1447E814CA34F920A1315F8,PinName="execute",PinType.PinCategory="exec",PinType.PinSubCategory="",PinType.PinSubCategoryObject=None,PinType.PinSubCategoryMemberReference=(),PinType.PinValueType=(),PinType.ContainerType=None,PinType.bIsReference=False,PinType.bIsConst=False,PinType.bIsWeakPointer=False,PinType.bIsUObjectWrapper=False,LinkedTo=(K2Node_Event_0 D098D41F404FEFAFD822D08093AFBBA7,),PersistentGuid=00000000000000000000000000000000,bHidden=False,bNotConnectable=False,bDefaultValueIsReadOnly=False,bDefaultValueIsIgnored=False,bAdvancedView=False,bOrphanedPin=False,)
-   CustomProperties Pin (PinId=50044A60DE4482789B6CA0A4BD51F169,PinName="then_0",Direction="EGPD_Output",PinType.PinCategory="exec",PinType.PinSubCategory="",PinType.PinSubCategoryObject=None,PinType.PinSubCategoryMemberReference=(),PinType.PinValueType=(),PinType.ContainerType=None,PinType.bIsReference=False,PinType.bIsConst=False,PinType.bIsWeakPointer=False,PinType.bIsUObjectWrapper=False,LinkedTo=(K2Node_CallFunction_2 CC10486B69427106C2639EBE588ACDDF,),PersistentGuid=00000000000000000000000000000000,bHidden=False,bNotConnectable=False,bDefaultValueIsReadOnly=False,bDefaultValueIsIgnored=False,bAdvancedView=False,bOrphanedPin=False,)
+   CustomProperties Pin (PinId=50044A60DE4482789B6CA0A4BD51F169,PinName="then_0",Direction="EGPD_Output",PinType.PinCategory="exec",PinType.PinSubCategory="",PinType.PinSubCategoryObject=None,PinType.PinSubCategoryMemberReference=(),PinType.PinValueType=(),PinType.ContainerType=None,PinType.bIsReference=False,PinType.bIsConst=False,PinType.bIsWeakPointer=False,PinType.bIsUObjectWrapper=False,LinkedTo=(K2Node_CallFunction_13 265FD30C684CC9BF094A5EB278587A68,),PersistentGuid=00000000000000000000000000000000,bHidden=False,bNotConnectable=False,bDefaultValueIsReadOnly=False,bDefaultValueIsIgnored=False,bAdvancedView=False,bOrphanedPin=False,)
    CustomProperties Pin (PinId=EE5B8F232B4D5383BBEF1ABBAA1DE99D,PinName="then_1",Direction="EGPD_Output",PinType.PinCategory="exec",PinType.PinSubCategory="",PinType.PinSubCategoryObject=None,PinType.PinSubCategoryMemberReference=(),PinType.PinValueType=(),PinType.ContainerType=None,PinType.bIsReference=False,PinType.bIsConst=False,PinType.bIsWeakPointer=False,PinType.bIsUObjectWrapper=False,LinkedTo=(K2Node_CallFunction_11 35303420D14ABDD9915A2BA28B6BE060,),PersistentGuid=00000000000000000000000000000000,bHidden=False,bNotConnectable=False,bDefaultValueIsReadOnly=False,bDefaultValueIsIgnored=False,bAdvancedView=False,bOrphanedPin=False,)
-End Object
-Begin Object Class=/Script/BlueprintGraph.K2Node_VariableGet Name="K2Node_VariableGet_0"
-   VariableReference=(MemberName="DefiWallet",MemberGuid=7B5B1B6341400A5F144F08938F774854,bSelfContext=True)
-   NodePosX=592
-   NodePosY=-160
-   NodeGuid=1025515BD34123ADF3D7E987966ECCB0
-   CustomProperties Pin (PinId=5BC9AD8AD244757403D75DBE104C57FA,PinName="DefiWallet",Direction="EGPD_Output",PinType.PinCategory="object",PinType.PinSubCategory="",PinType.PinSubCategoryObject=Class'"/Script/CronosPlayUnreal.DefiWalletCoreActor"',PinType.PinSubCategoryMemberReference=(),PinType.PinValueType=(),PinType.ContainerType=None,PinType.bIsReference=False,PinType.bIsConst=False,PinType.bIsWeakPointer=False,PinType.bIsUObjectWrapper=False,LinkedTo=(K2Node_CallFunction_2 CC66B5196A43EC50BD5869A2A16BC1E4,),PersistentGuid=00000000000000000000000000000000,bHidden=False,bNotConnectable=False,bDefaultValueIsReadOnly=False,bDefaultValueIsIgnored=False,bAdvancedView=False,bOrphanedPin=False,)
-   CustomProperties Pin (PinId=D097C44ACA400A77CC044098008B2692,PinName="self",PinFriendlyName=NSLOCTEXT("K2Node", "Target", "Target"),PinType.PinCategory="object",PinType.PinSubCategory="",PinType.PinSubCategoryObject=BlueprintGeneratedClass'"/Game/ThirdPersonCPP/Maps/DynamicContractCall1.DynamicContractCall1_C"',PinType.PinSubCategoryMemberReference=(),PinType.PinValueType=(),PinType.ContainerType=None,PinType.bIsReference=False,PinType.bIsConst=False,PinType.bIsWeakPointer=False,PinType.bIsUObjectWrapper=False,PersistentGuid=00000000000000000000000000000000,bHidden=True,bNotConnectable=False,bDefaultValueIsReadOnly=False,bDefaultValueIsIgnored=False,bAdvancedView=False,bOrphanedPin=False,)
 End Object
 Begin Object Class=/Script/BlueprintGraph.K2Node_VariableGet Name="K2Node_VariableGet_1"
    VariableReference=(MemberName="DefiWallet",MemberGuid=7B5B1B6341400A5F144F08938F774854,bSelfContext=True)
-   NodePosX=624
-   NodePosY=240
+   NodePosX=608
+   NodePosY=176
    NodeGuid=1B4A344D09486FFD4A583BB4D4D3BD98
    CustomProperties Pin (PinId=114DD9F4004FCC40F16B6FB1A68D3A0C,PinName="DefiWallet",Direction="EGPD_Output",PinType.PinCategory="object",PinType.PinSubCategory="",PinType.PinSubCategoryObject=Class'"/Script/CronosPlayUnreal.DefiWalletCoreActor"',PinType.PinSubCategoryMemberReference=(),PinType.PinValueType=(),PinType.ContainerType=None,PinType.bIsReference=False,PinType.bIsConst=False,PinType.bIsWeakPointer=False,PinType.bIsUObjectWrapper=False,LinkedTo=(K2Node_CallFunction_11 2CCD60090A46D4C1088285BDFAE08E34,),PersistentGuid=00000000000000000000000000000000,bHidden=False,bNotConnectable=False,bDefaultValueIsReadOnly=False,bDefaultValueIsIgnored=False,bAdvancedView=False,bOrphanedPin=False,)
    CustomProperties Pin (PinId=AD222D35F44885AD1BED03BE5BE3744B,PinName="self",PinFriendlyName=NSLOCTEXT("K2Node", "Target", "Target"),PinType.PinCategory="object",PinType.PinSubCategory="",PinType.PinSubCategoryObject=BlueprintGeneratedClass'"/Game/ThirdPersonCPP/Maps/DynamicContractCall1.DynamicContractCall1_C"',PinType.PinSubCategoryMemberReference=(),PinType.PinValueType=(),PinType.ContainerType=None,PinType.bIsReference=False,PinType.bIsConst=False,PinType.bIsWeakPointer=False,PinType.bIsUObjectWrapper=False,PersistentGuid=00000000000000000000000000000000,bHidden=True,bNotConnectable=False,bDefaultValueIsReadOnly=False,bDefaultValueIsIgnored=False,bAdvancedView=False,bOrphanedPin=False,)
 End Object
 Begin Object Class=/Script/BlueprintGraph.K2Node_CustomEvent Name="K2Node_CustomEvent_0"
    CustomFunctionName="CustomEvent_0"
-   NodePosX=896
-   NodePosY=320
+   NodePosX=512
+   NodePosY=256
    NodeGuid=28644DF69F49F490919F7F8A94BAAC7D
    CustomProperties Pin (PinId=8458A9302D42B5879D560F82F9B0D120,PinName="OutputDelegate",Direction="EGPD_Output",PinType.PinCategory="delegate",PinType.PinSubCategory="",PinType.PinSubCategoryObject=None,PinType.PinSubCategoryMemberReference=(MemberParent=BlueprintGeneratedClass'"/Game/ThirdPersonCPP/Maps/DynamicContractCall1.DynamicContractCall1_C"',MemberName="CustomEvent_0",MemberGuid=28644DF69F49F490919F7F8A94BAAC7D),PinType.PinValueType=(),PinType.ContainerType=None,PinType.bIsReference=False,PinType.bIsConst=False,PinType.bIsWeakPointer=False,PinType.bIsUObjectWrapper=False,LinkedTo=(K2Node_CallFunction_14 86E16EE0ED4666583CDF729C79D2BAB6,),PersistentGuid=00000000000000000000000000000000,bHidden=False,bNotConnectable=False,bDefaultValueIsReadOnly=False,bDefaultValueIsIgnored=False,bAdvancedView=False,bOrphanedPin=False,)
    CustomProperties Pin (PinId=2299CDA84046B6E0AB0C7B914842A7A8,PinName="then",Direction="EGPD_Output",PinType.PinCategory="exec",PinType.PinSubCategory="",PinType.PinSubCategoryObject=None,PinType.PinSubCategoryMemberReference=(),PinType.PinValueType=(),PinType.ContainerType=None,PinType.bIsReference=False,PinType.bIsConst=False,PinType.bIsWeakPointer=False,PinType.bIsUObjectWrapper=False,PersistentGuid=00000000000000000000000000000000,bHidden=False,bNotConnectable=False,bDefaultValueIsReadOnly=False,bDefaultValueIsIgnored=False,bAdvancedView=False,bOrphanedPin=False,)
@@ -130,6 +108,7 @@ Begin Object Class=/Script/BlueprintGraph.K2Node_CustomEvent Name="K2Node_Custom
 End Object
 
 ```
+
 {% endtab %}
 
 {% endtabs %}
